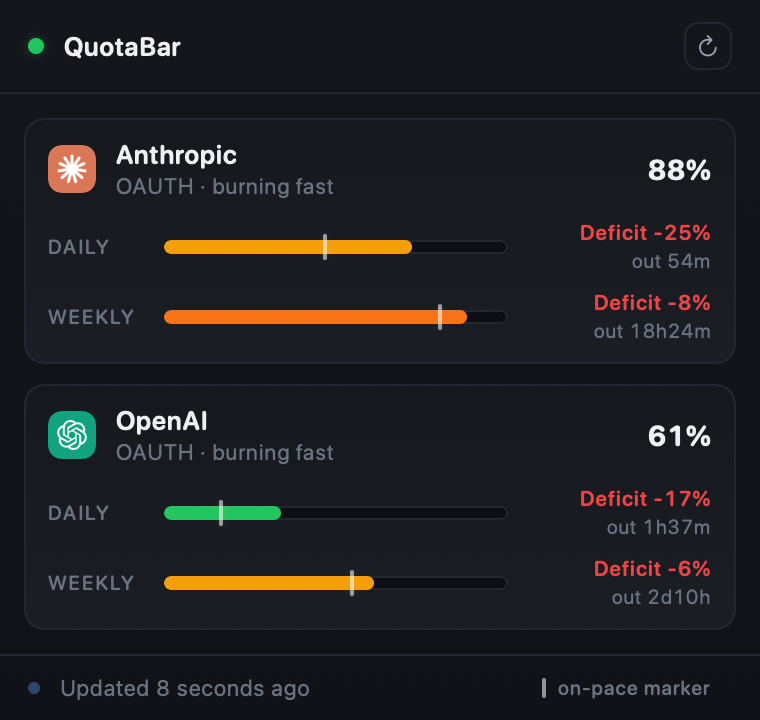
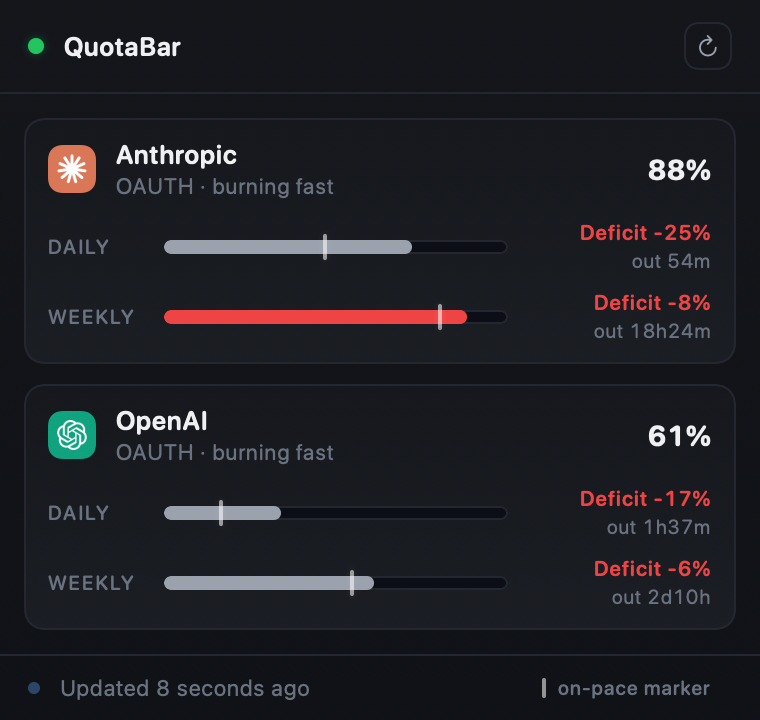
Dashboard: collapse bar + pace palette to neutral ink, only flag red at high used / severe deficit

diff --git a/Sources/QuotaBarApp/DashboardView.swift b/Sources/QuotaBarApp/DashboardView.swift
@@ -504,21 +504,15 @@ private enum QBColor {
 
 enum UsageColor {
     static func forUsedPercent(_ used: Double) -> Color {
-        switch used {
-        case ..<50: QBColor.ok
-        case ..<75: QBColor.warn
-        case ..<90: QBColor.hot
-        default: QBColor.crit
-        }
+        used >= 80 ? QBColor.crit : QBColor.ink2
     }
 }
 
 enum PaceColor {
     static func forStage(_ stage: PaceStage) -> Color {
         switch stage {
-        case .onTrack, .slightReserve, .moderateReserve, .deepReserve: QBColor.ink2
-        case .slightDeficit: QBColor.warn
         case .moderateDeficit, .severeDeficit: QBColor.crit
+        default: QBColor.ink2
         }
     }
 }
